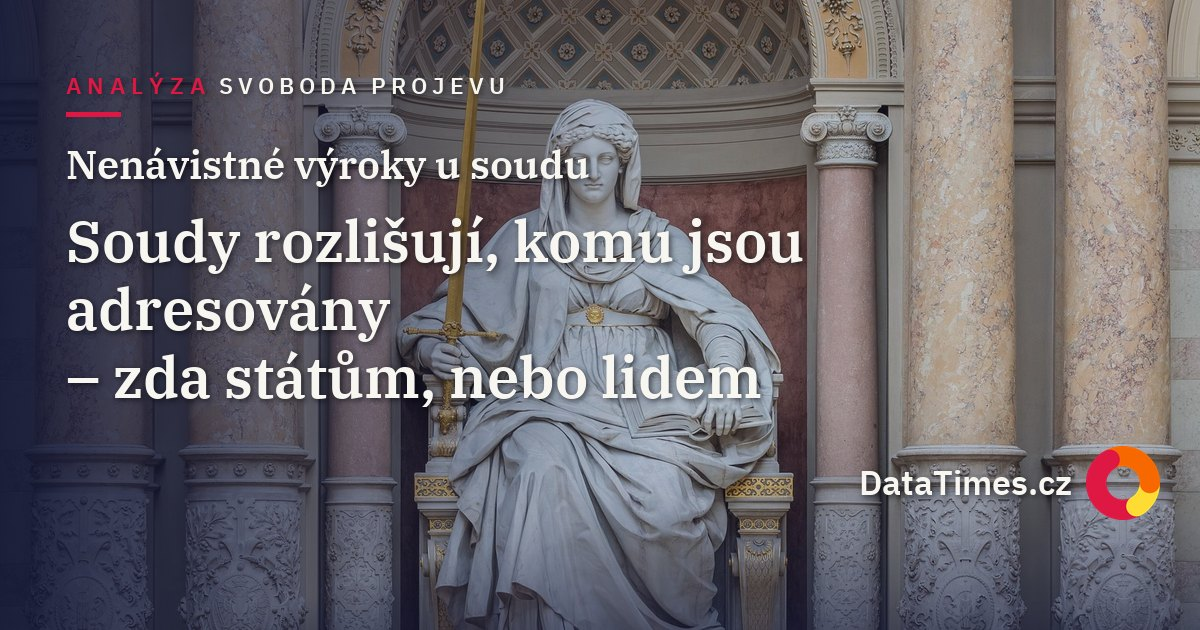
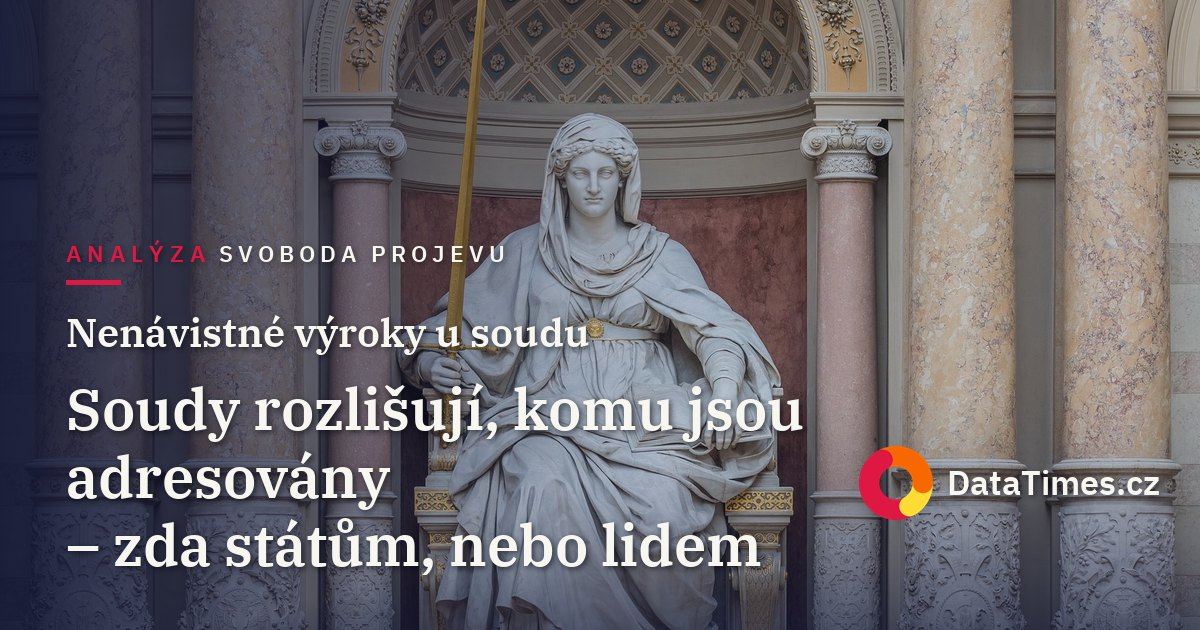
fix: DataTimes.cz badge order (ring left) + courts cover text below statue face
- photo-cover.py: badge now ring left, wordmark right (right-aligned block);
  new --text-top to shift kicker/eyebrow/headline block vertically
- evropske-soudy cover: regenerated with --text-top 238 --crop-bias 0.13

diff --git a/tools/photo-cover.py b/tools/photo-cover.py
@@ -127,6 +127,8 @@ def main():
     ap.add_argument("--quality", type=int, default=86)
     ap.add_argument("--badge-lift", type=int, default=70,
                     help="posun odznaku DataTimes.cz nahoru (px) kvůli titulku, který X/Twitter vykreslí přes spodní okraj náhledu")
+    ap.add_argument("--text-top", type=int, default=70,
+                    help="svislá pozice kickeru (px); zbytek bloku (linka, eyebrow, headline) se posune s ním – např. aby text nezakrýval obličej")
     ap.add_argument("--logo", default=os.path.join(REPO_ROOT, "logo.png"),
                     help="prstenec DataTimes.cz (default: logo.png v rootu repa)")
     args = ap.parse_args()
@@ -210,33 +212,35 @@ def main():
 
     # 3) kicker + linka
     kf = sans_sb(23)
-    shadow_text((MX, 70), args.kicker, kf, (*accent, 255), ls=6, sh_alpha=120)
+    T = args.text_top
+    shadow_text((MX, T), args.kicker, kf, (*accent, 255), ls=6, sh_alpha=120)
     if args.section:
         kw = sum(ImageDraw.Draw(img).textlength(c, font=kf) + 6 for c in args.kicker)
-        shadow_text((MX + kw + 8, 70), args.section, kf, (*PAPER, 235), ls=5, sh_alpha=120)
-    ImageDraw.Draw(img).rectangle([MX, 112, MX + 54, 116], fill=(*accent, 255))
+        shadow_text((MX + kw + 8, T), args.section, kf, (*PAPER, 235), ls=5, sh_alpha=120)
+    ImageDraw.Draw(img).rectangle([MX, T + 42, MX + 54, T + 46], fill=(*accent, 255))
 
     # 4) eyebrow + headline
-    y = 138
+    y = T + 68
     if args.eyebrow:
         shadow_text((MX, y), args.eyebrow, serif_sb(40), (*PAPER, 255))
-        y = 202
+        y = T + 132
     hf = serif_sb(58)
     for ln in wrap(args.headline, hf, MAXW):
         shadow_text((MX, y), ln, hf, (*PAPER, 255))
         y += int(58 * 1.18)
 
-    # 5) odznak DataTimes.cz vpravo dole
+    # 5) odznak DataTimes.cz vpravo dole – VŽDY zleva kolečko, pak nápis
+    #    (blok zarovnaný k pravému okraji)
     if os.path.exists(args.logo):
         RH = 74
         ring = Image.open(args.logo).convert("RGBA").resize((RH, RH), Image.LANCZOS)
-        rx, ry = W - 40 - RH, H - 40 - RH - args.badge_lift
-        img.alpha_composite(ring, (rx, ry))
         bf = sans_sb(34)
         btxt = "DataTimes.cz"
         bw = ImageDraw.Draw(img).textlength(btxt, font=bf)
         asc, desc = bf.getmetrics()
-        shadow_text((rx - 14 - bw, ry + (RH - (asc + desc)) // 2), btxt, bf, (*PAPER, 255))
+        rx, ry = int(W - 40 - bw - 14 - RH), H - 40 - RH - args.badge_lift
+        img.alpha_composite(ring, (rx, ry))
+        shadow_text((rx + RH + 14, ry + (RH - (asc + desc)) // 2), btxt, bf, (*PAPER, 255))
 
     # 6) export
     os.makedirs(os.path.dirname(os.path.abspath(args.out)), exist_ok=True)
